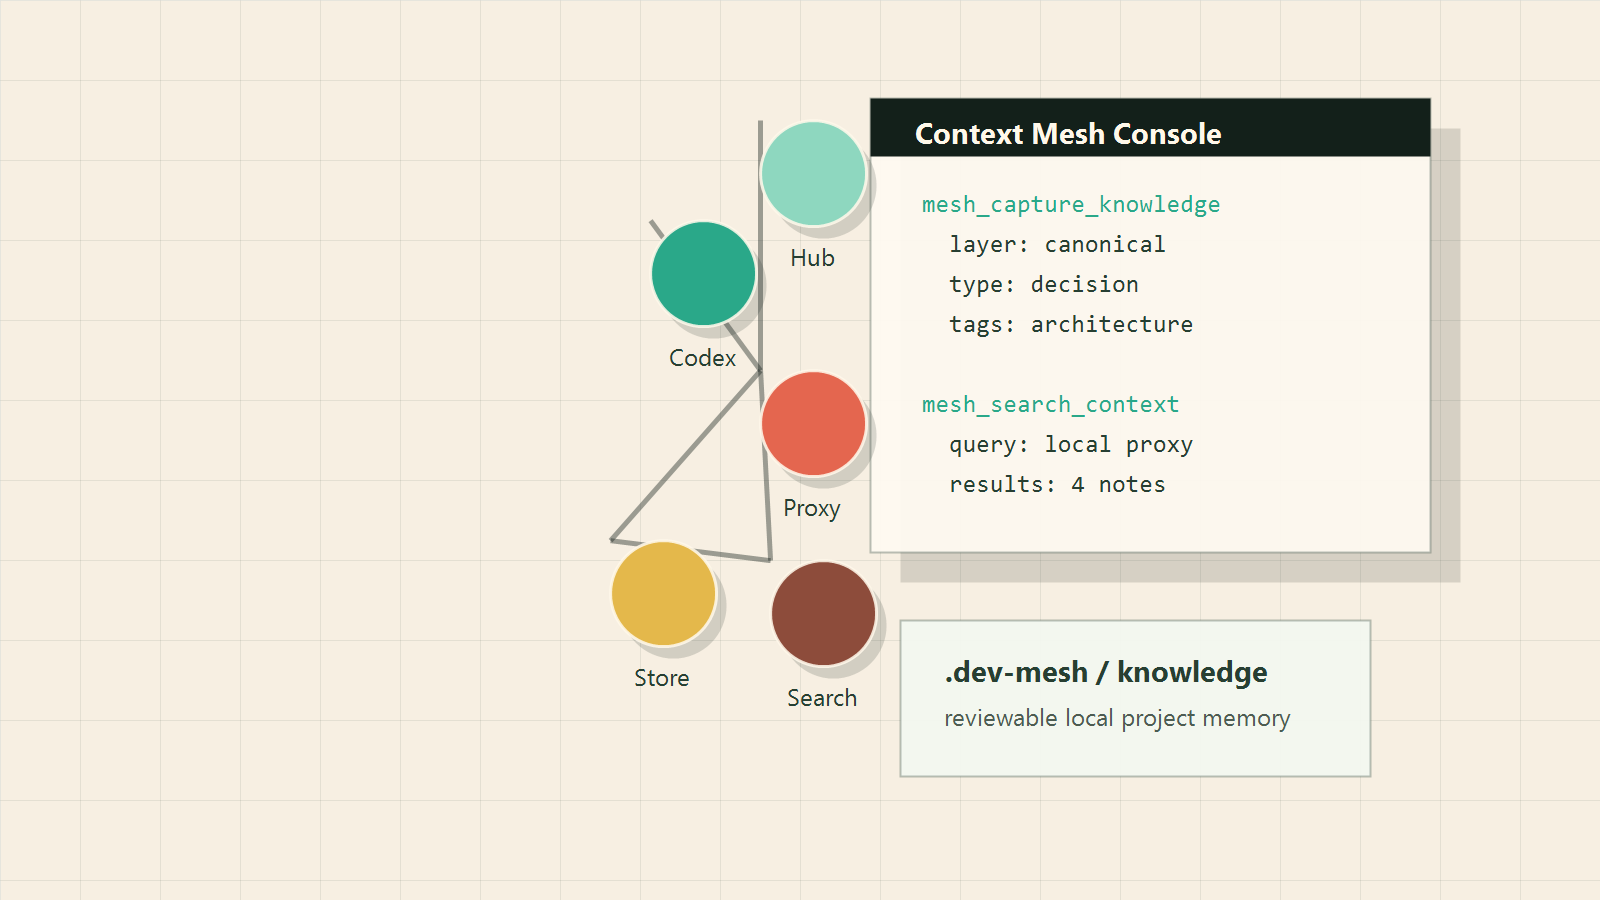
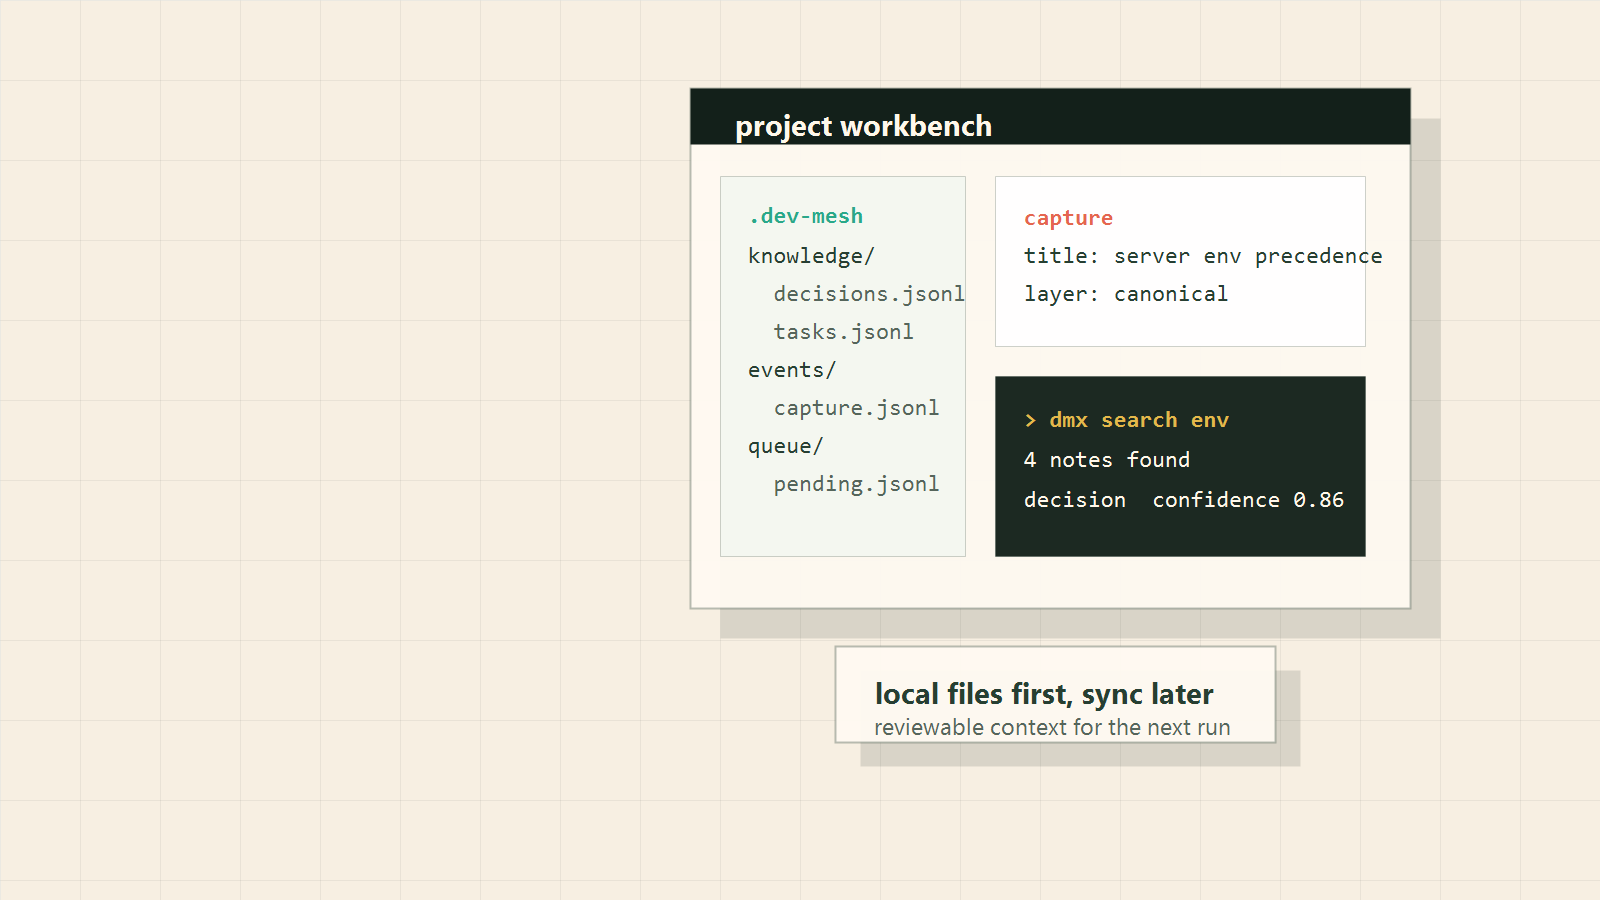
Refine website homepage tone

Changed region(s): [[0.375, 0.0933, 0.9375, 0.8711]]

diff --git a/apps/website/docs/index.md b/apps/website/docs/index.md
@@ -8,35 +8,35 @@ aside: false
 <main class="mesh-home">
   <section class="mesh-hero">
     <div class="mesh-hero__inner">
-      <p class="mesh-eyebrow">Local-first context memory</p>
+      <p class="mesh-eyebrow">Project context layer</p>
       <h1>MCP Dev Mesh</h1>
       <p class="mesh-hero__lead">
-        把 Codex、Claude Code、opencode 的项目经验沉淀到可审查、可同步、可检索的
-        <code>.dev-mesh</code> 知识网络中。
+        给项目放一个可检索、可审查的上下文层。决策、任务进展、术语和命令经验落在
+        <code>.dev-mesh</code>，再通过 MCP 被本地工具调用。
       </p>
       <div class="mesh-actions">
         <a class="mesh-button" href="/getting-started">开始使用</a>
-        <a class="mesh-button mesh-button--secondary" href="/architecture">查看架构</a>
+        <a class="mesh-button mesh-button--secondary" href="/reference/cli">CLI 参考</a>
       </div>
     </div>
   </section>
 
   <section class="mesh-section mesh-section--warm">
     <div class="mesh-section__inner">
-      <p class="mesh-kicker">Project memory that travels with the repo</p>
-      <h2>从一次对话，到长期项目上下文</h2>
+      <p class="mesh-kicker">What goes into the repo</p>
+      <h2>记录工程事实，不写概念口号</h2>
       <div class="mesh-grid">
         <article class="mesh-panel">
-          <h3>本地优先</h3>
-          <p>知识先写入项目自己的 .dev-mesh 目录，团队可以审查、同步和迁移。</p>
+          <h3>决策记录</h3>
+          <p>服务端配置、存储策略、接口边界这些“为什么这样做”，落成可检索条目。</p>
         </article>
         <article class="mesh-panel">
-          <h3>MCP 接入</h3>
-          <p>Codex、Claude Code 和 opencode 通过本地 proxy 调用统一工具沉淀上下文。</p>
+          <h3>任务进展</h3>
+          <p>完成了什么、还缺什么、下次从哪里继续，按项目写入本地事件和知识文件。</p>
         </article>
         <article class="mesh-panel">
-          <h3>团队 Mesh</h3>
-          <p>Hub Server 管理成员、项目、邀请、同步状态和跨项目经验检索。</p>
+          <h3>命令经验</h3>
+          <p>能复用的启动、部署、排障命令留在仓库旁边，下一轮不用重新翻历史。</p>
         </article>
       </div>
     </div>
@@ -45,18 +45,18 @@ aside: false
   <section class="mesh-section mesh-section--cool">
     <div class="mesh-section__inner mesh-path">
       <div>
-        <p class="mesh-kicker">CLI and MCP workflow</p>
-        <h2>最小链路清晰可测</h2>
+        <p class="mesh-kicker">Local workflow</p>
+        <h2>先本地可用，再团队同步</h2>
         <p class="mesh-path__copy">
-          先用 CLI 完成 smoke test，再把 MCP proxy 接到 AI 工具。每条知识都可以回到
-          项目文件里检查。
+          <code>dmx</code> 先把知识库建在项目目录里。需要团队协作时，再接入 Hub Server 做成员、
+          邀请、同步状态和跨项目检索。
         </p>
       </div>
       <ol class="mesh-path__list">
-        <li><code>dmx init</code><span>创建项目级知识库</span></li>
-        <li><code>dmx proxy</code><span>暴露本地 MCP 工具</span></li>
-        <li><code>dmx capture</code><span>沉淀任务和决策</span></li>
-        <li><code>dmx search</code><span>回收上下文给下一轮协作</span></li>
+        <li><code>dmx init</code><span>初始化项目级 .dev-mesh</span></li>
+        <li><code>dmx capture</code><span>写入决策、任务和经验</span></li>
+        <li><code>dmx search</code><span>从本地知识库取回上下文</span></li>
+        <li><code>dmx join</code><span>接入团队 Hub Server</span></li>
       </ol>
     </div>
   </section>